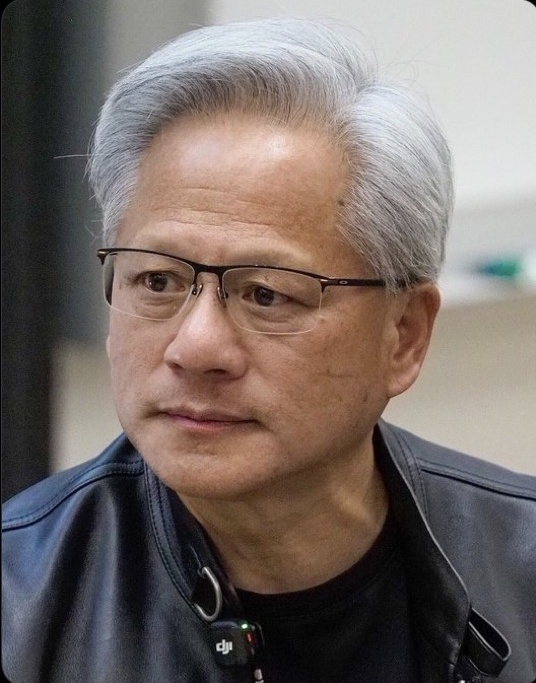
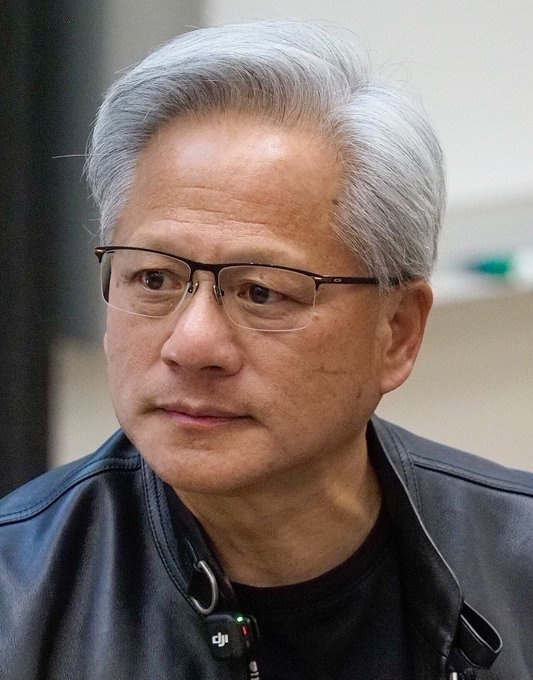
Jensen Huang: nueva portada
Claude-Session: https://claude.ai/code/session_011HtJt2a4sBpoKNENnst7wy

diff --git a/carruseles/2026-11-08-jensen-huang/src/slide-01.html b/carruseles/2026-11-08-jensen-huang/src/slide-01.html
@@ -4,7 +4,7 @@
 @font-face{font-family:'IT';font-weight:900;src:url('../../../fonts/inter-tight-latin-900-normal.woff2')}
 html,body{margin:0}*{box-sizing:border-box}
 body{width:1080px;height:1350px;position:relative;overflow:hidden;background:#152F46;font-family:'IT';color:#fff}
-#foto{position:absolute;left:0;top:0;width:1080px;height:640px;background:url(foto1.jpg) center 20%/cover}
+#foto{position:absolute;left:0;top:0;width:1080px;height:640px;background:url(foto1.jpg) center 22%/cover}
 #bar{position:absolute;left:0;top:640px;width:1080px;height:6px;background:#4FC3F7}
 #pill{position:absolute;left:64px;top:608px;display:flex;align-items:stretch;height:64px;border-radius:6px;overflow:hidden;box-shadow:0 10px 30px rgba(0,0,0,.35)}
 #pill .l{display:flex;align-items:center;gap:12px;background:#E5484D;color:#fff;font-weight:900;font-size:26px;letter-spacing:.1em;padding:0 22px}
